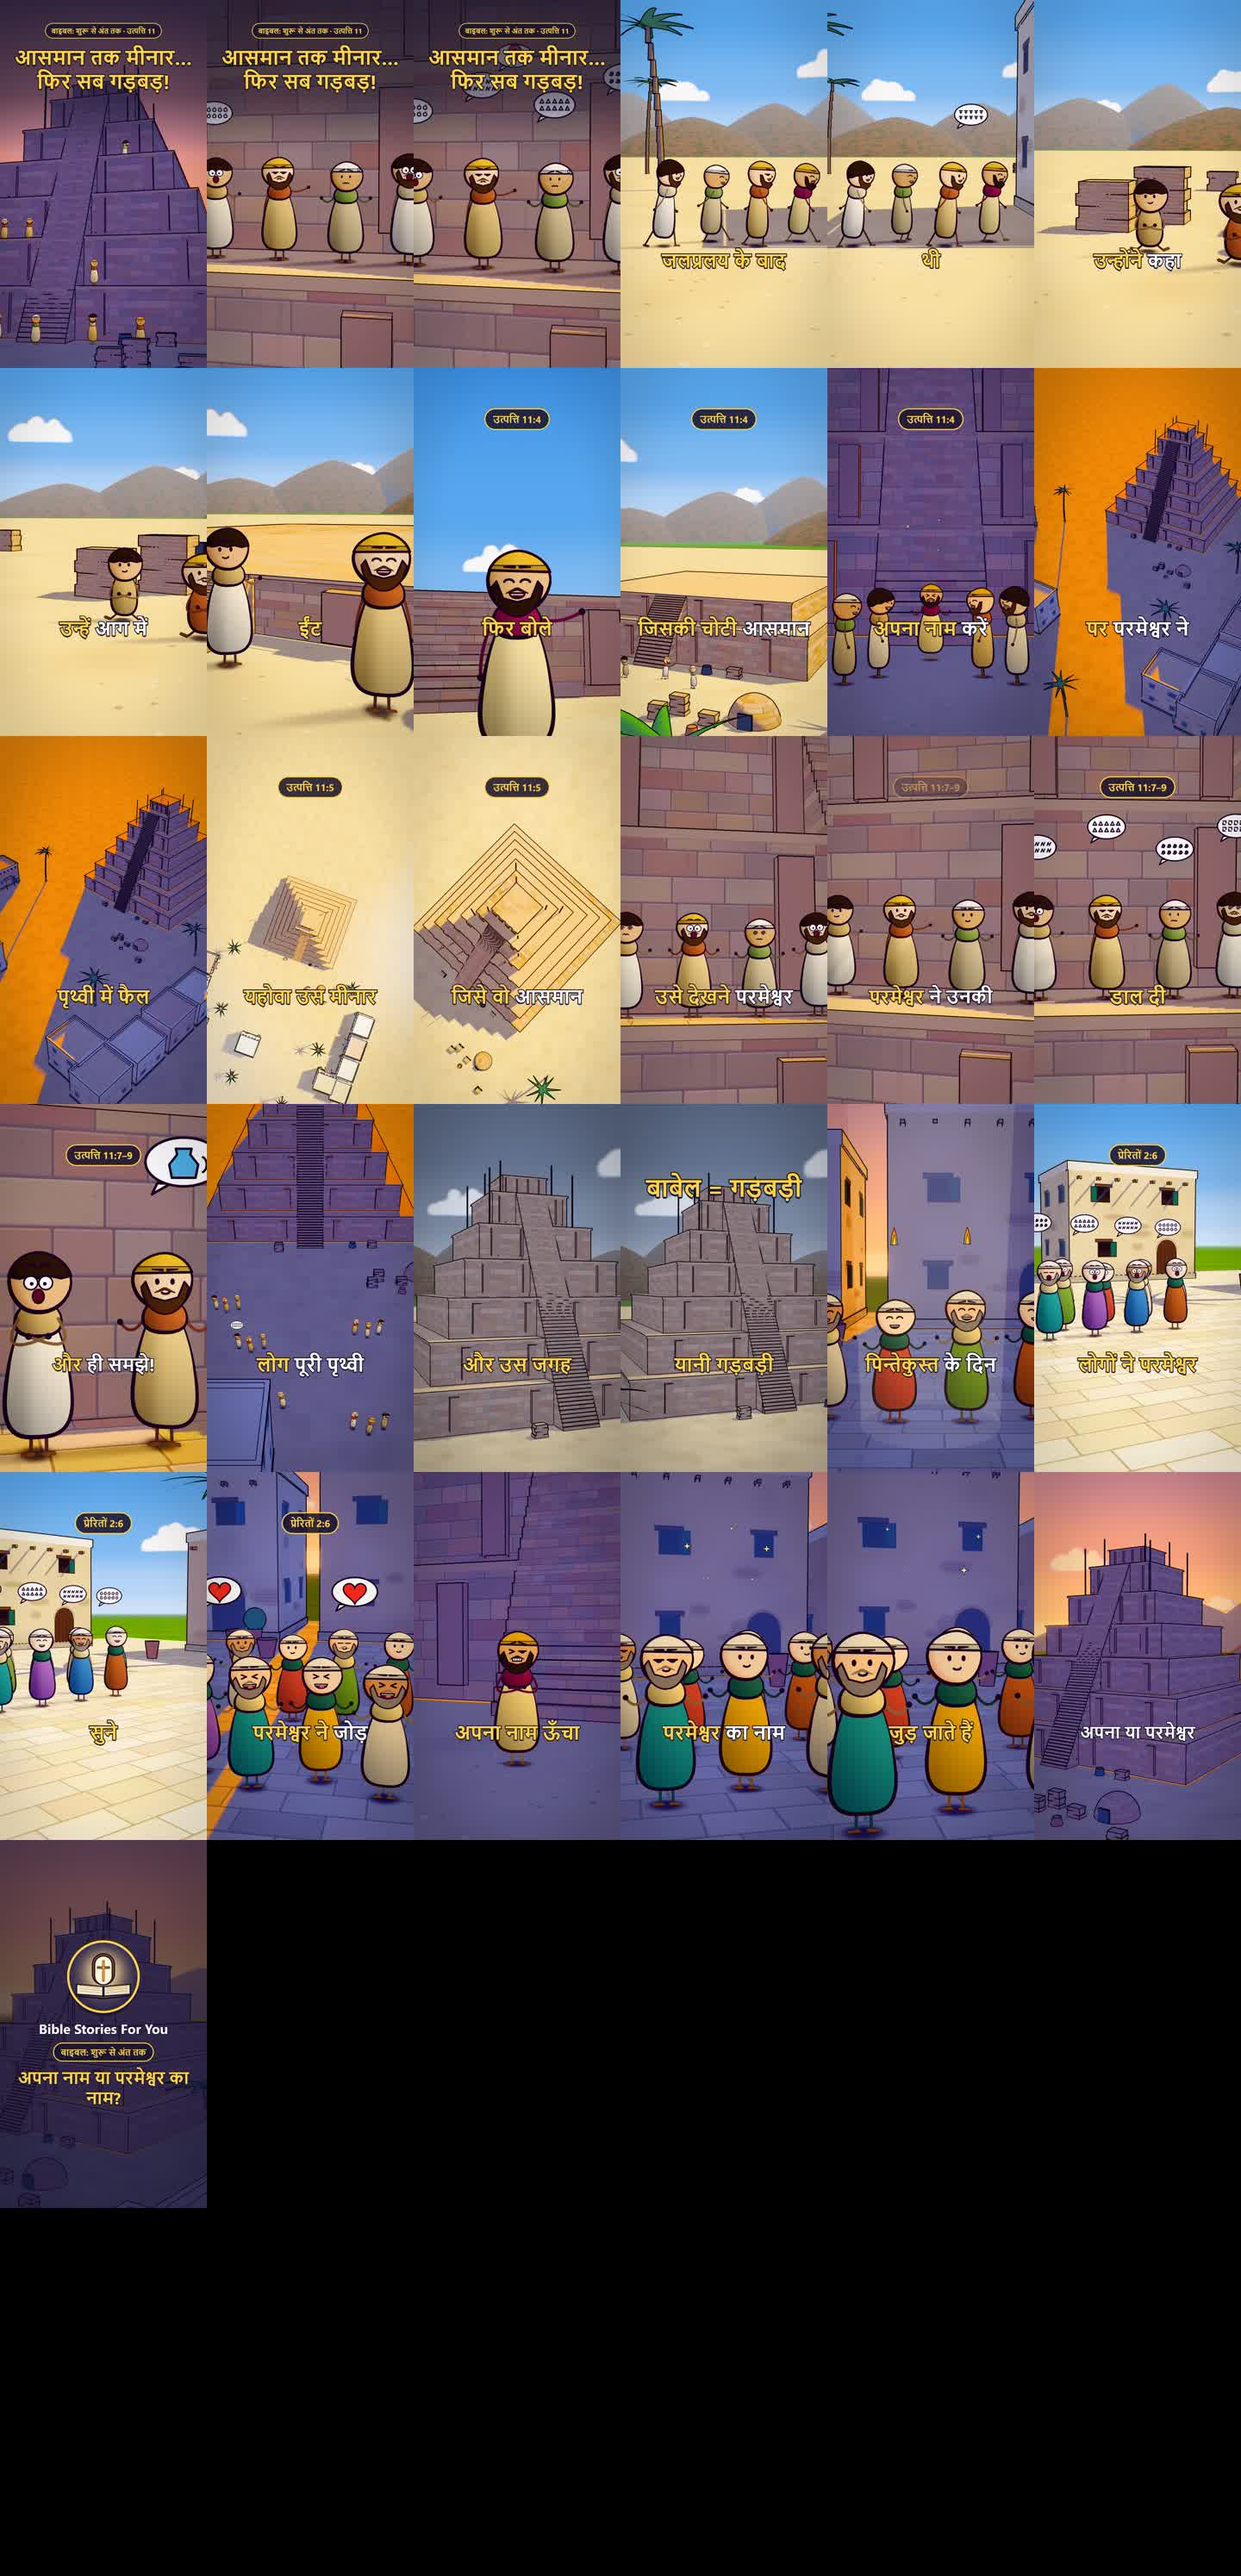
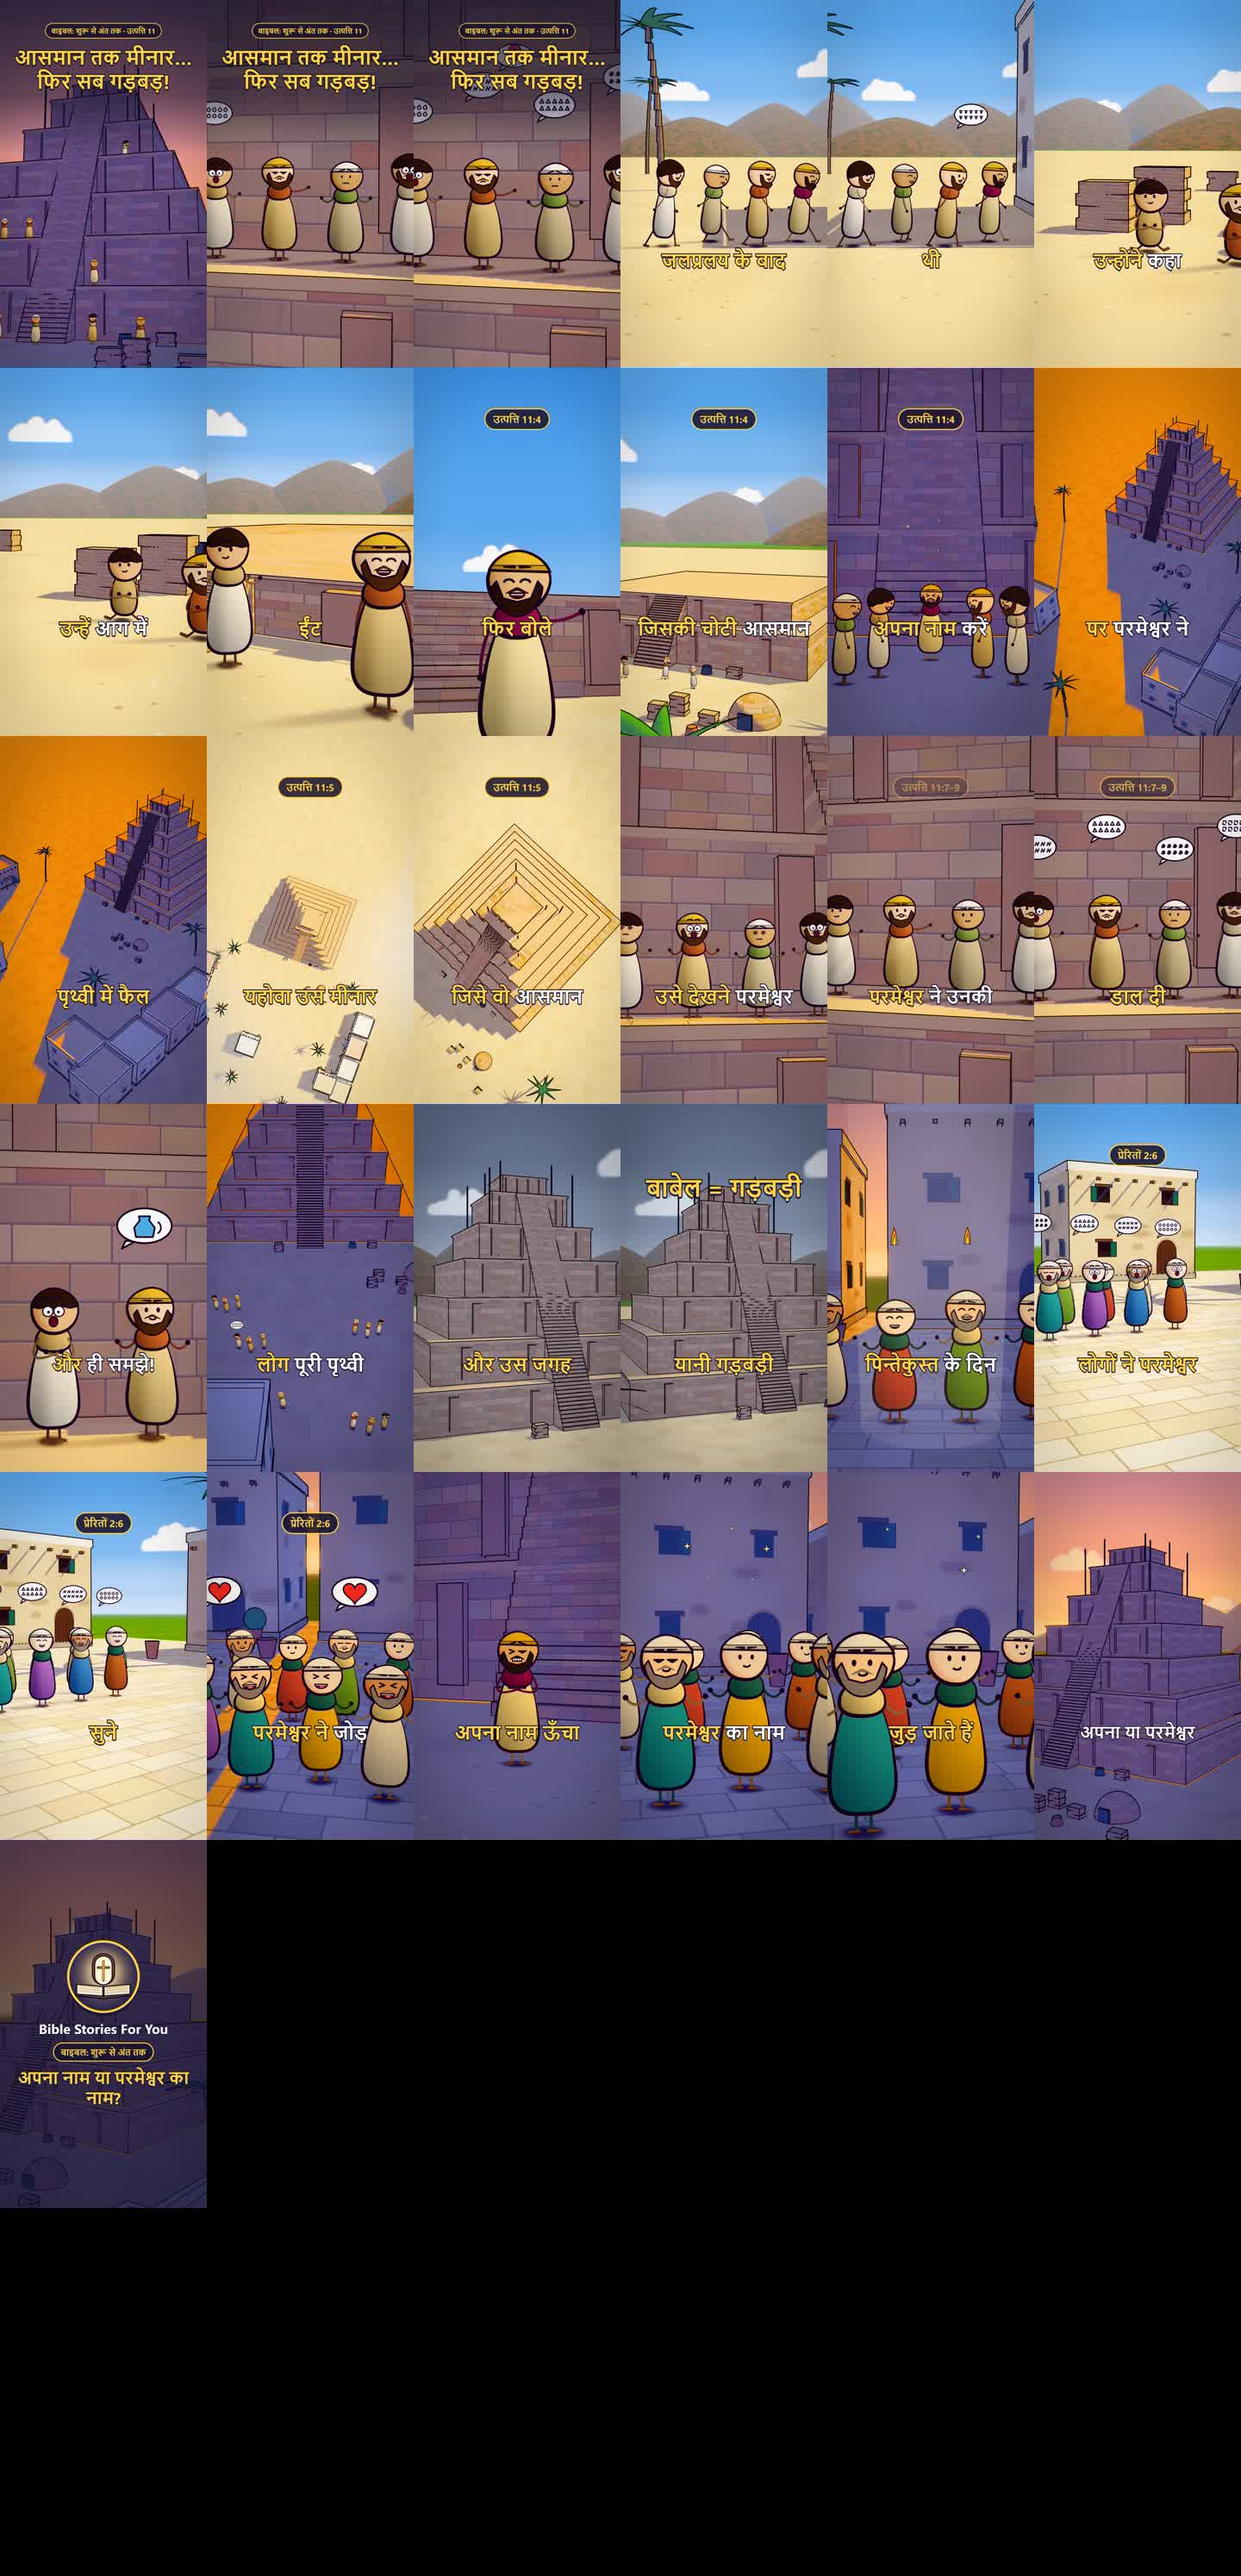
Job 019 done: Babel re-render, speech bubble clipping fixed and verified

Changed region(s): [[0.0, 0.4356, 0.1875, 0.5912], [0.875, 0.28, 0.9375, 0.3111]]

diff --git a/reports/STATUS.md b/reports/STATUS.md
@@ -97,4 +97,6 @@ WORKER READY os=Windows 11 Home 10.0.26300 gpu=NVIDIA GeForce RTX 4060 Laptop GP
   Checks: tower grows tier by tier (~19-20.2 s) OK; view from above (~26-32 s) not blank OK; speech bubbles in the wide shots (~34-35 s) readable.
   ISSUE: ~35.5-36 s the brick speech bubble is cut off by the top edge and the verse tag "11:7-9" sits on top of it; ~36.8-38 s the jug bubble is clipped at the right edge. Needs a framing fix if you want them fully visible. No black frames otherwise.
   Both: sheet and spot frames only; videos not watched in full, audio not listened to. Drive upload not done.
+- DONE 019 babel re-render (replaces 018): duration=62.87s res=1440x2560, render_min=8.13 (487.9 s). Volume mean -17.0 dB / max -1.1. Sheet: reports/babel_sheet.jpg.
+  Fix verified on 10 frames from 35.2 to 38.1 s: brick bubble fully inside the frame; jug and "?" bubbles fully inside; verse tag no longer on the close-ups. Replaced FINAL VIDEOS\Tower of Babel - HINDI.mp4.
 - Jobs 001-008 are done. FINAL VIDEOS\ holds the current EN + HI versions of all three reels. Waiting for new jobs.

diff --git a/jobs/done.md b/jobs/done.md
@@ -17,3 +17,4 @@
 016
 017
 018
+019
